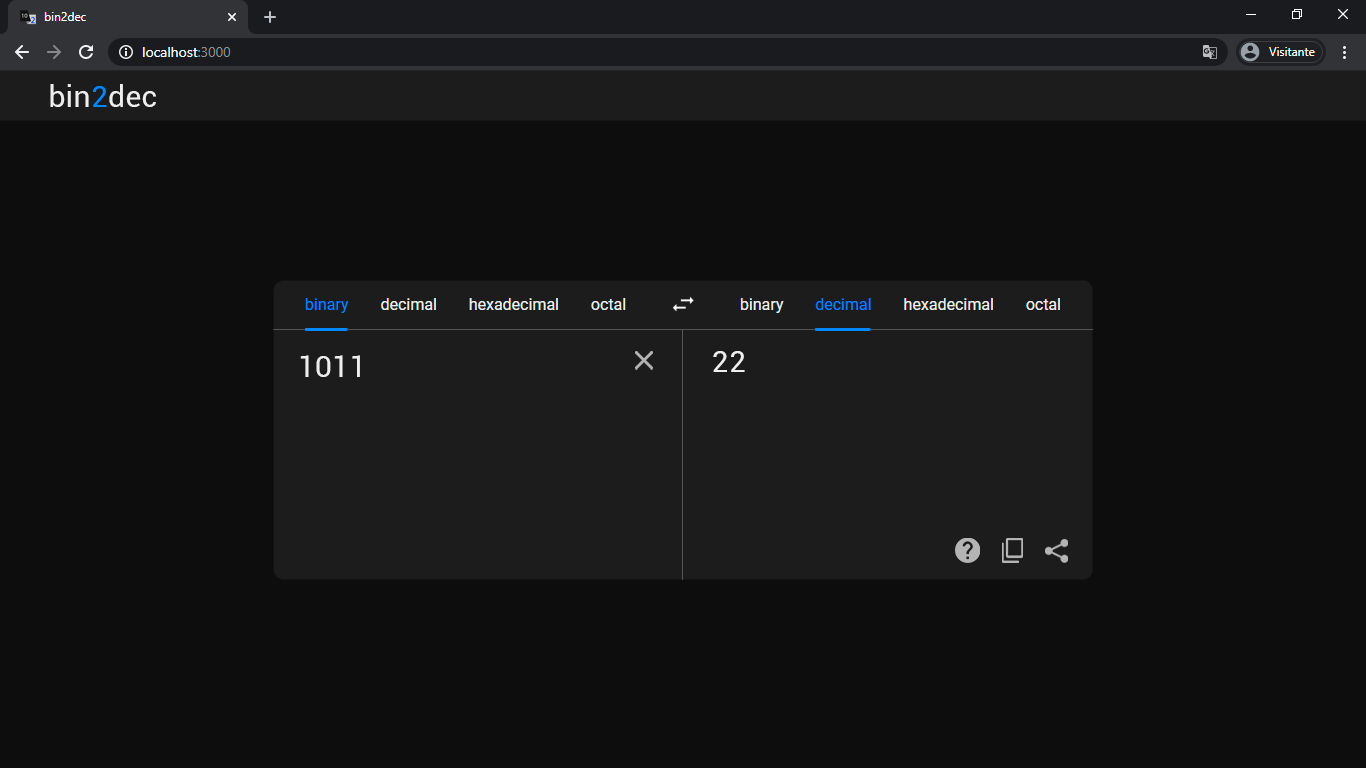
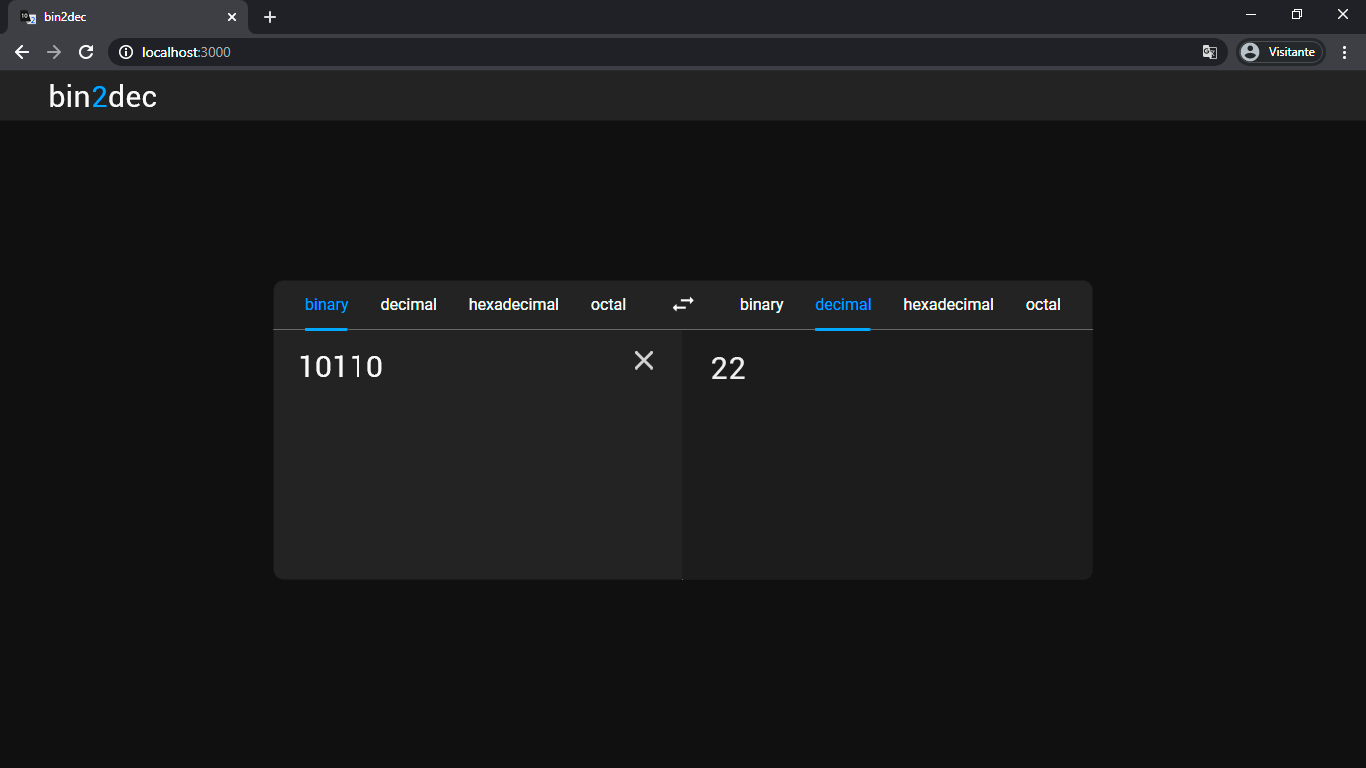
consertando bugs

diff --git a/src/pages/Bin2dec/Body/Body.js b/src/pages/Bin2dec/Body/Body.js
@@ -8,8 +8,8 @@ export default class Body extends Component {
     constructor(props) {
         super(props)
         this.state= {
-            input: '',
-            output: '',
+            input: sessionStorage.getItem('input'),
+            output: sessionStorage.getItem('output'),
             pageHeight: 250,
             inputHeight: 0,
             outputHeight: 0
@@ -68,7 +68,7 @@ export default class Body extends Component {
             domain = /^[0-9]+$/
     
         } else if(sessionStorage.getItem('inputBase') == 16) {
-            domain = /^[0-9A-F]+$/
+            domain = /^[0-9,A-F]+$/
     
         } else if (sessionStorage.getItem('inputBase') == 8) {
             domain = /^[0-7]+$/
@@ -111,36 +111,31 @@ export default class Body extends Component {
         sessionStorage.setItem('output', '')
     }
 
-    onChangeHandler(input) {
-        let output = this.multipleLinesHandler(input.target.value)
+    onChangeHandler(inputValue) {
+        let input = inputValue.target.value.toUpperCase()
+        let output = this.multipleLinesHandler(input)
 
-        sessionStorage.setItem('input', input.target.value)
+        sessionStorage.setItem('input', input)
         sessionStorage.setItem('output', output)
 
-        this.setState({input: input.target.value, output: output})
+        this.setState({input: input, output: output})
     }
 
     //react
-
-    componentDidMount() {
-        this.setState({
-            input: sessionStorage.getItem('input'),
-            output: sessionStorage.getItem('output')
-        })
-    }
     
     componentDidUpdate(prevProps) {
         
         if(prevProps.input != this.props.input && prevProps.output != this.props.output) {
             this.setState({input: this.state.output, output: this.state.input})
+            sessionStorage.setItem('input', this.state.output)
+            sessionStorage.setItem('output', this.state.input)
 
         } else if (prevProps.output != this.props.output) {
-            console.log(this.props.output)
 
             let output = this.multipleLinesHandler(this.state.input)
 
             this.setState({output: output})
-            console.log(output)
+            sessionStorage.setItem('output', output)
         }
         this.setPageHeight()
     }
@@ -154,7 +149,11 @@ export default class Body extends Component {
                     getHeight={this.setInput.bind(this)}
                     erase={this.erase.bind(this)}
                 />
-                <OutputField value={this.state.output} getHeight={this.setOutput.bind(this)} />
+                <OutputField
+                    value={this.state.output}
+                    getHeight={this.setOutput.bind(this)}
+                    inputValue={this.state.input}
+                />
             </div>
         )
     }

diff --git a/src/pages/Bin2dec/Body/InputField.js b/src/pages/Bin2dec/Body/InputField.js
@@ -29,9 +29,9 @@ export default class InputField extends Component {
                 }
                 </div>
                 <textarea className='textarea'
-                value={this.props.value}
-                onChange={this.props.setValue.bind(this)}
-                ref={this.textarea}
+                    value={this.props.value}
+                    onChange={this.props.setValue.bind(this)}
+                    ref={this.textarea}
                 ></textarea>
                 <img
                     onClick={this.props.erase}

diff --git a/src/pages/Bin2dec/Body/OutputField.js b/src/pages/Bin2dec/Body/OutputField.js
@@ -11,7 +11,7 @@ export default class OutputField extends Component {
     
     render() {
         return (
-            <div className="output" style={{ display: this.props.value != '' ? 'block' : 'none'}}>
+            <div className="output" style={{ display: this.props.inputValue != '' ? 'block' : 'none'}}>
                 <div className='OutputField' ref={this.ref} >
                     {this.props.value.split('\n').map(line => {
                         if (line == "") {

diff --git a/public/index.html b/public/index.html
@@ -19,6 +19,7 @@
         font-family: 'Roboto', sans-serif;
         margin: 0;
         padding: 0;
+        outline: none;
       }
       body {
         background-color: #111;

diff --git a/README.md b/README.md
@@ -64,6 +64,8 @@ Finally, run the app
 - bin2bin (In bin2dec, the program translate a number in some base to the same number but in another base. In bin2bin (I didn't find in a better name), the idea is to translate this binary to another binary represetation (like two's complement, excess-128, etc))
 
 # bugs
+
+- This isn't an actual bug, but is something that I doubt. I don't know if it's better change the input value when the user change the input base or if I keep the typed value
 - mobile: infinite width and 2x height
 - mobile: base selector behind the input box
 
